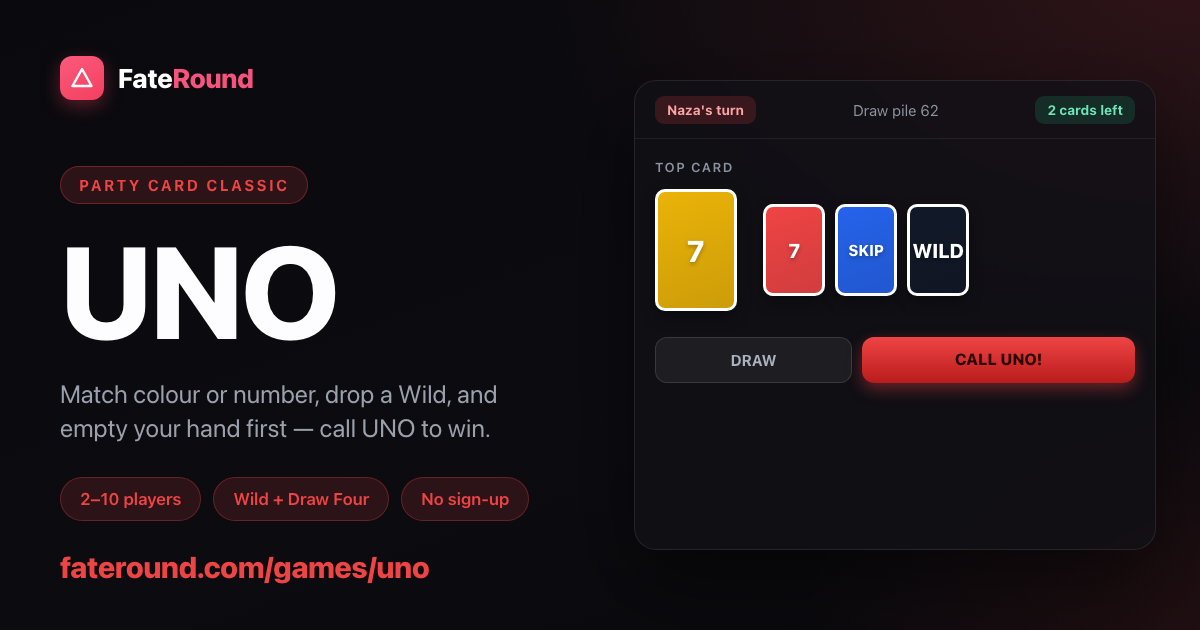
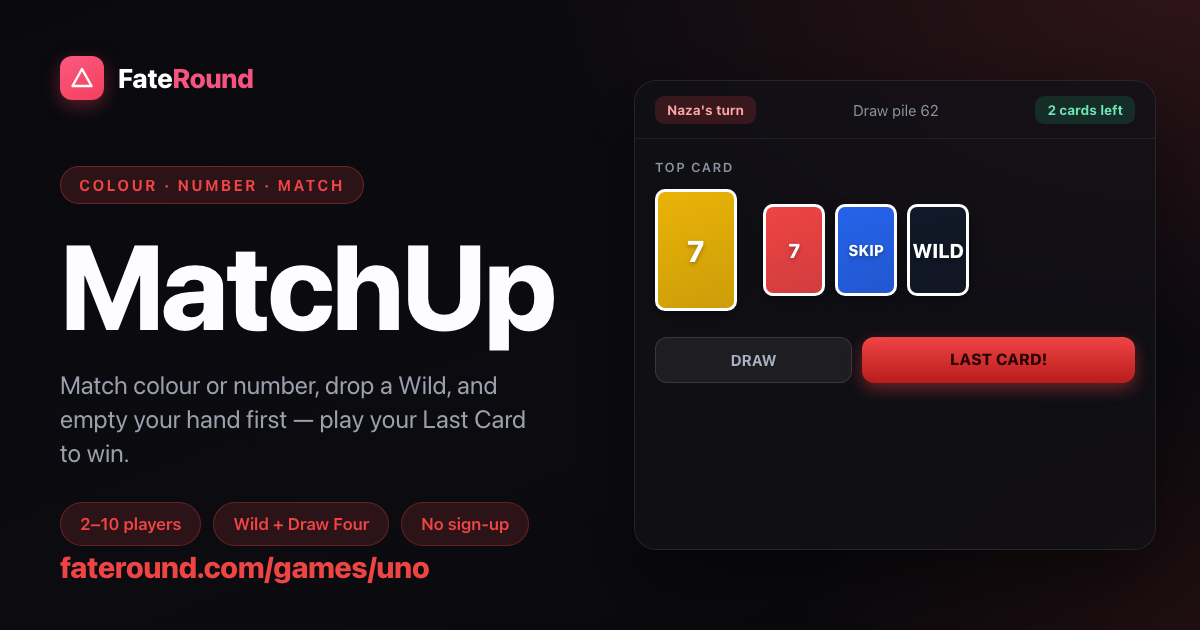
las

diff --git a/scripts/og/og-template.html b/scripts/og/og-template.html
@@ -78,8 +78,8 @@ function dcRow(emoji,name,sub,state){
 const GAMES = {
 'uno': {
   accent:'#ef4444', soft:'rgba(239,68,68,.14)', eyebrow:'Colour · Number · Match',
-  title:'Match Up', titleSize:104,
-  desc:'Match colour or number, drop a Wild, and empty your hand first — shout Match Up to win.',
+  title:'MatchUp', titleSize:120,
+  desc:'Match colour or number, drop a Wild, and empty your hand first — play your Last Card to win.',
   pills:['2–10 players','Wild + Draw Four','No sign-up'],
   panel:`
     <div class="rhead">
@@ -97,7 +97,7 @@ const GAMES = {
       </div>
       <div style="margin-top:26px;display:flex;gap:10px">
         ${mjBtn('DRAW')}
-        <div style="flex:1.4;background:linear-gradient(180deg,#ef4444,#b91c1c);color:#2b0505;font-weight:800;border-radius:12px;padding:13px 0;text-align:center;font-size:16px;box-shadow:0 6px 16px rgba(239,68,68,.4)">MATCH UP!</div>
+        <div style="flex:1.4;background:linear-gradient(180deg,#ef4444,#b91c1c);color:#2b0505;font-weight:800;border-radius:12px;padding:13px 0;text-align:center;font-size:16px;box-shadow:0 6px 16px rgba(239,68,68,.4)">LAST CARD!</div>
       </div>
     </div>`
 },
